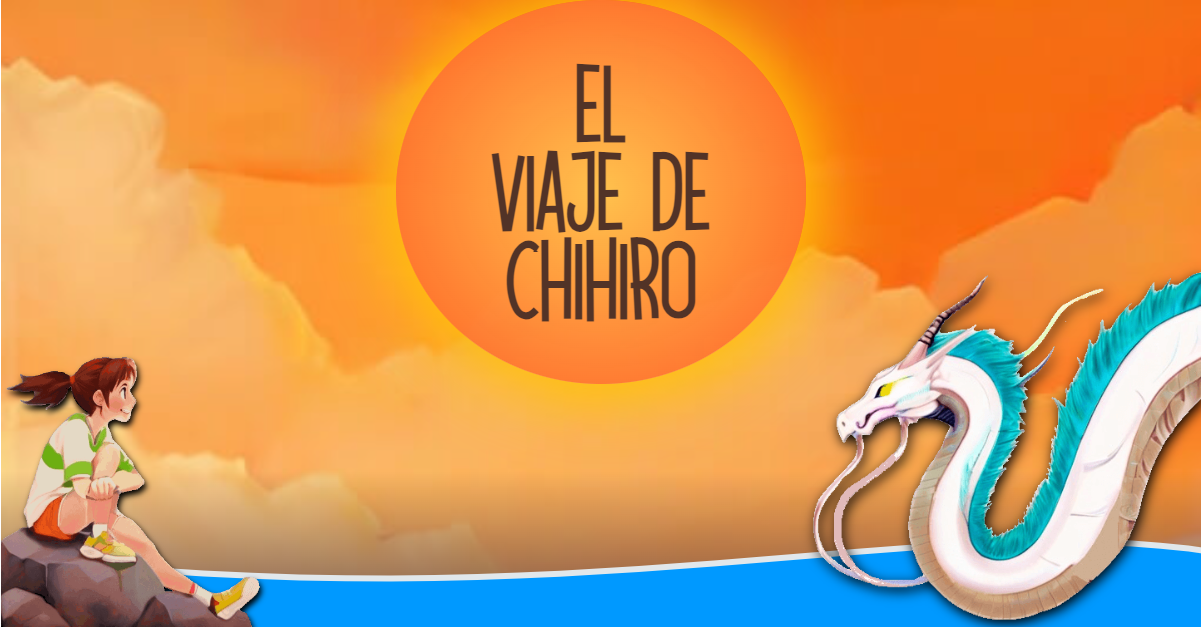
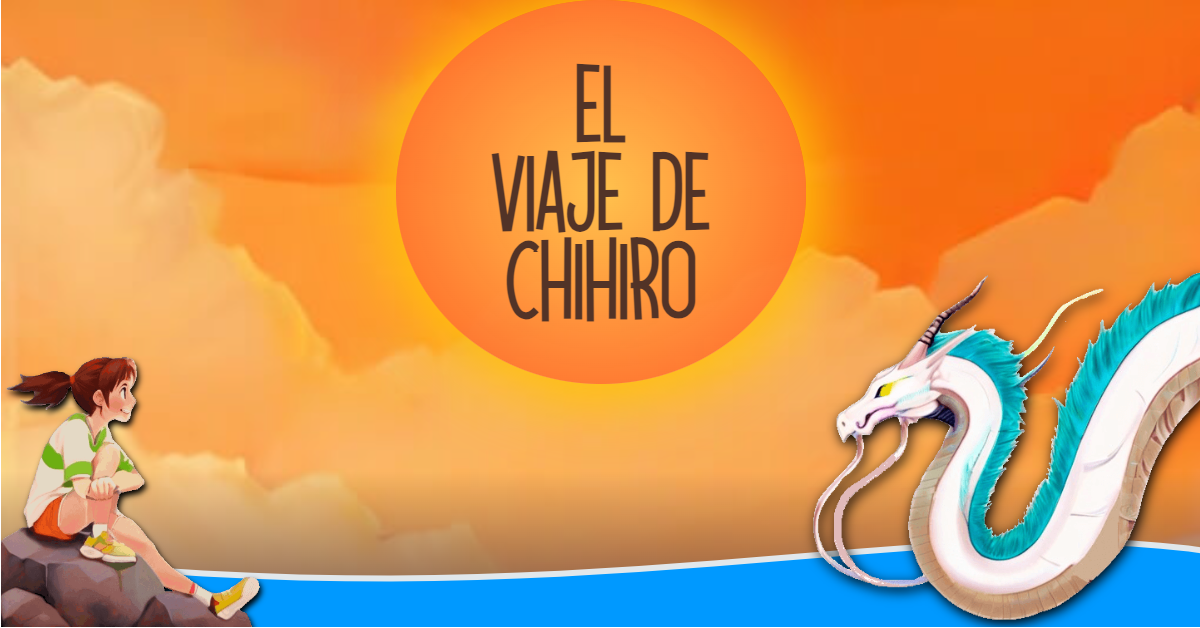
img og

diff --git a/index.html b/index.html
@@ -13,7 +13,7 @@
     <meta property="og:title" content="El Viaje de Chihiro" />
     <meta property="og:description" content="Historia, personajes y lugares sobre la película dirigida por Hayao Mizaki sobre el viaje de Chihiro en un mundo mágico y ancestral" />
     <meta property="og:image" content="view/image/img-og/index.png" />
-    <meta property="og:image:width" content="1202" />
+    <meta property="og:image:width" content="1200" />
     <meta property="og:image:height" content="628" />
     <!-- Twitter -->
     <meta property="twitter:card" content="summary_large_image" />
@@ -21,6 +21,7 @@
     <meta property="twitter:title" content="El Viaje de Chihiro" />
     <meta property="twitter:description" content="Historia, personajes y lugares sobre la película dirigida por Hayao Mizaki sobre el viaje de Chihiro en un mundo mágico y ancestral" />
     <meta property="twitter:image" content="view/image/img-og/index.png" />
+    <meta name="twitter:card" content="summary_large_image" />
     <link rel="icon" href="./view/image/chihiro.png">
     <link rel="stylesheet" href="./view/css/style.css">
     <link rel="stylesheet" href="https://cdnjs.cloudflare.com/ajax/libs/animate.css/4.1.1/animate.min.css"/>

diff --git a/history.html b/history.html
@@ -21,6 +21,7 @@
     <meta property="twitter:title" content="El Viaje de Chihiro" />
     <meta property="twitter:description" content="Narración sobre la película de 'El Viaje de Chihiro' dirigida por Hayao Miyazaki." />
     <meta property="twitter:image" content="view/image/img-og/history.png" />
+    <meta name="twitter:card" content="summary_large_image" />
     <link rel="icon" href="./view/image/chihiro.png">
     <link rel="stylesheet" href="./view/css/style.css">
     <script src="https://kit.fontawesome.com/cd30d5437a.js" crossorigin="anonymous"></script>

diff --git a/characters.html b/characters.html
@@ -21,6 +21,7 @@
     <meta property="twitter:title" content="El Viaje de Chihiro" />
     <meta property="twitter:description" content="Personajes de la película 'El Viaje de Chihiro' dirigida por Hayao Miyazaki." />
     <meta property="twitter:image" content="view/image/img-og/characters.png" />
+    <meta name="twitter:card" content="summary_large_image" />
     <link rel="icon" href="./view/image/chihiro.png">
     <link rel="stylesheet" href="./view/css/style.css">
     <script src="https://kit.fontawesome.com/cd30d5437a.js" crossorigin="anonymous"></script>

diff --git a/inspiration.html b/inspiration.html
@@ -21,6 +21,7 @@
     <meta property="twitter:title" content="El Viaje de Chihiro" />
     <meta property="twitter:description" content="Lugares que inspiraron a Hayao Miyazaki para la relización de la película." />
     <meta property="twitter:image" content="view/image/img-og/inspiration.png" />
+    <meta name="twitter:card" content="summary_large_image" />
     <link rel="icon" href="./view/image/chihiro.png">
     <link rel="stylesheet" href="./view/css/style.css">
     <script src="https://kit.fontawesome.com/cd30d5437a.js" crossorigin="anonymous"></script>

diff --git a/author.html b/author.html
@@ -21,6 +21,7 @@
     <meta property="twitter:title" content="El Viaje de Chihiro" />
     <meta property="twitter:description" content="Hayao Miyazaki" />
     <meta property="twitter:image" content="view/image/img-og/author.png" />
+    <meta name="twitter:card" content="summary_large_image" />
     <link rel="icon" href="./view/image/chihiro.png">
     <link rel="stylesheet" href="./view/css/style.css">
     <script src="https://kit.fontawesome.com/cd30d5437a.js" crossorigin="anonymous"></script>
